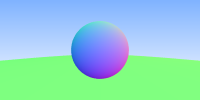
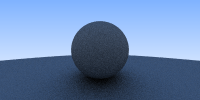
Added reflection

diff --git a/src/ray.rs b/src/ray.rs
@@ -5,6 +5,7 @@ use image;
 use hitable_list;
 use hitable::{ HitRecord, Hitable };
 use std::f64;
+use sphere::Sphere;
 
 type V = Vector3<f64>;
 
@@ -31,17 +32,24 @@ impl Ray {
     }
 
     pub fn color<T>( &self, world: &hitable_list::HitableList<T> ) -> image::Rgb<u8> where T: Hitable {
+        let c = self._color(&world);
+        image::Rgb( [(255.99 * c.x) as u8, (255.99 * c.y) as u8, (255.99 * c.z) as u8] )
+    }
+
+    pub fn _color<T>( &self, world: &hitable_list::HitableList<T> ) -> V where T: Hitable {
         let hr = world.hit( self, 0.0, f64::INFINITY );
         match hr {
             Some(h) => {
-                let c = 255.99 * 0.5 * (cgmath::vec3(1.0, 1.0, 1.0) + h.n);
-                image::Rgb([c.x as u8, c.y as u8, c.z as u8])
+                let target: V = h.p + h.n + Sphere::random_in_unit_sphere();
+                let r = Ray::new(h.p, target - h.p);
+                0.5 * r._color(&world)
+
             }
             None => {
                 let unit_direction = self.direction();
                 let t = 0.5 * (unit_direction.y + 1.0);
-                let c = 255.99 * ((1.0 - t) * cgmath::vec3(1.0, 1.0, 1.0) + t * cgmath::vec3(0.5, 0.7, 1.0));
-                image::Rgb([c.x as u8, c.y as u8, c.z as u8])
+                let c = (1.0 - t) * cgmath::vec3(1.0, 1.0, 1.0) + t * cgmath::vec3(0.5, 0.7, 1.0);
+                c
             }
         }
 

diff --git a/src/sphere.rs b/src/sphere.rs
@@ -2,12 +2,30 @@ use cgmath;
 use cgmath::prelude::*;
 use ray::Ray;
 use hitable::*;
+use rand::prelude::*;
+use rand::distributions::{Standard, Uniform};
 
 type V = cgmath::Vector3<f64>;
 
+#[derive(Debug)]
 pub struct Sphere {
     pub center: V,
     pub radius: f64
+}
+
+impl Sphere {
+    fn _random() -> V {
+        let p: V = SmallRng::from_entropy().sample(Standard);
+        2.0 * p - cgmath::vec3(1.0, 1.0, 1.0)
+    }
+
+    pub fn random_in_unit_sphere() -> V {
+        let mut p = cgmath::vec3(999.99, 999.99, 999.99);
+        while p.magnitude2() >= 1.0 {
+            p = Sphere::_random();
+        }
+        p
+    }
 }
 
 impl Hitable for Sphere {
